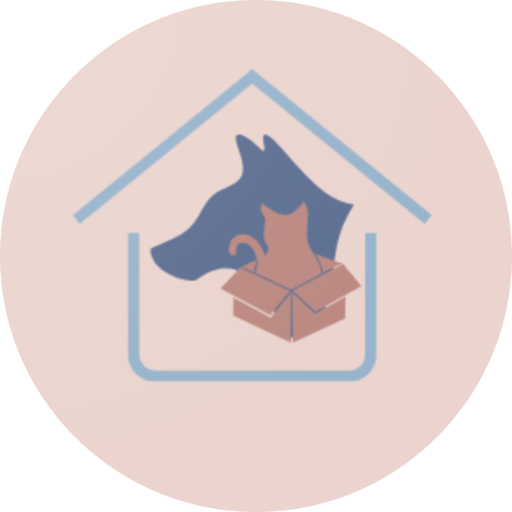
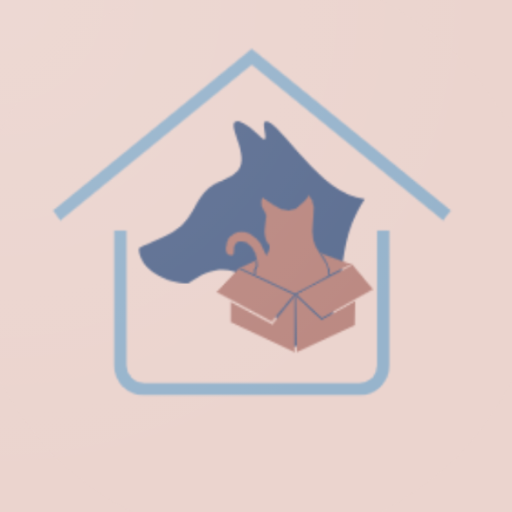
create bottom navigation bar

diff --git a/lib/views/login_page.dart b/lib/views/login_page.dart
@@ -2,17 +2,11 @@ import 'package:flutter/material.dart';
 import 'package:pet_rescue_mobile/presenter/sign_in.dart';
 import 'package:pet_rescue_mobile/src/asset.dart';
 
-//tmp screen
-class FirstScreen extends StatelessWidget {
-  @override
-  Widget build(BuildContext context) {
-    return Scaffold(
-      body: Container(color: Colors.blue[100]),
-    );
-  }
-}
+import '../navigator.dart';
 
 class LoginPage extends StatefulWidget {
+  LoginPage({Key key}) : super(key: key);
+  
   @override
   _LoginPageState createState() => _LoginPageState();
 }
@@ -31,11 +25,11 @@ class _LoginPageState extends State<LoginPage> {
               Hero(
                 tag: 'hero',
                 child: SizedBox(
-                  height: 200,
-                  child: Image.asset(app_logo)
+                  height: 400,
+                  child: Image.asset(canva_logo)
                   )
               ),
-              SizedBox(height: 100),
+              SizedBox(height: 120),
               _signInButton(),
             ],
           ),
@@ -54,7 +48,7 @@ class _LoginPageState extends State<LoginPage> {
             Navigator.of(context).push(
               MaterialPageRoute(
                 builder: (context) {
-                  return FirstScreen();
+                  return BottomNavBar();
                 }
               )
             );
@@ -70,13 +64,13 @@ class _LoginPageState extends State<LoginPage> {
           mainAxisSize: MainAxisSize.min,
           mainAxisAlignment: MainAxisAlignment.center,
           children: <Widget>[
-            Image(image: AssetImage("assets/google_logo.png"), height: 35.0),
+            Image(image: AssetImage("assets/google_logo.png"), height: 30.0),
             Padding(
               padding: const EdgeInsets.only(left: 10),
               child: Text(
                 'Sign in with Google',
                 style: TextStyle(
-                  fontSize: 20,
+                  fontSize: 18,
                   color: Colors.grey,
                 ),
               ),

diff --git a/lib/navigator.dart b/lib/navigator.dart
@@ -1,0 +1,70 @@
+import 'package:flutter/cupertino.dart';
+import 'package:flutter/material.dart';
+
+import 'views/home_page.dart';
+import 'views/profile.dart';
+import 'views/progress_report.dart';
+
+class BottomNavBar extends StatefulWidget {
+  @override
+  State<StatefulWidget> createState() => _BottomNavBar();
+}
+
+class _BottomNavBar extends State<BottomNavBar> {
+  @override
+  void initState() {
+    super.initState();
+  }
+
+  @override
+  void dispose() {
+    super.dispose();
+  }
+
+  final List<Widget> pages = [
+    HomePage(key: PageStorageKey('HomePage')),
+    ProgressReportPage(key: PageStorageKey('ProgressReportPage')),
+    ProfilePage(key: PageStorageKey('ProfilePage')),
+  ];
+
+  final PageStorageBucket bucket = PageStorageBucket();
+
+  int _selectedIndex = 0;
+
+  Widget _bottomNavBar(int selectedIndex) => BottomNavigationBar(
+        showSelectedLabels: false,
+        showUnselectedLabels: false,
+        onTap: (int index) => setState(() => _selectedIndex = index),
+        currentIndex: selectedIndex,
+        items: bottomItems,
+      );
+
+  @override
+  Widget build(BuildContext context) {
+    return Scaffold(
+        bottomNavigationBar: _bottomNavBar(_selectedIndex),
+        body: Stack(children: [
+          Container(
+            child: PageStorage(
+              child: pages[_selectedIndex],
+              bucket: bucket,
+            ),
+          ),
+        ]));
+  }
+
+  final bottomItems = [
+    BottomNavigationBarItem(
+      icon: Icon(Icons.home),
+      title: new Text('Home'),
+    ),
+    BottomNavigationBarItem(
+      icon: Icon(Icons.article),
+      title: new Text('Progress Report'),
+    ),
+    BottomNavigationBarItem(
+      icon: Icon(Icons.perm_identity),
+      title: new Text('Profile'),
+    ),
+  ];
+}

diff --git a/lib/presenter/sign_in.dart b/lib/presenter/sign_in.dart
@@ -17,8 +17,8 @@ Future<String> signInWithGoogle() async {
 
   //google
   final FirebaseUser user = (await _auth.signInWithCredential(credential)).user;
-  String tokenGoogle;
-  await user.getIdToken().then((value) => tokenGoogle = value.token);
+  // String tokenGoogle;
+  // await user.getIdToken().then((value) => tokenGoogle = value.token);
 
   //firebase
   final FirebaseUser currentUser = await _auth.currentUser();
@@ -26,7 +26,6 @@ Future<String> signInWithGoogle() async {
   await currentUser.getIdToken().then((value) => tokenFirebase = value.token);
 
   if (currentUser != null) {
-    print('Google:' + tokenGoogle);
     print('Firebase:' + tokenFirebase);
 
     print('signInWithGoogle succeeded: $currentUser');

diff --git a/lib/src/route_page.dart b/lib/src/route_page.dart
@@ -1,0 +1,25 @@
+import 'package:flutter/material.dart';
+import 'package:pet_rescue_mobile/views/home_page.dart';
+import 'package:pet_rescue_mobile/views/login_page.dart';
+
+class RoutePage extends StatefulWidget {
+  @override
+  _RoutePageState createState() => _RoutePageState();
+}
+
+class _RoutePageState extends State<RoutePage> {
+  bool isLoggedIn = false;
+
+  @override
+  void initState() {
+    super.initState();
+    print('initState');
+
+  }
+
+  @override
+  Widget build(BuildContext context) {
+    return isLoggedIn == true ? HomePage() : LoginPage();
+  }
+}
+

diff --git a/lib/src/status.dart b/lib/src/status.dart
@@ -1,0 +1,39 @@
+enum postStatus {
+  Approved,
+  Rejected
+}
+
+enum petStatus {
+  BeingTreatment,
+  FindingAdopter,
+  Adopted
+}
+
+enum adoptionStatus {
+  Processing,
+  Adopted,
+  Returned
+}
+
+enum adoptionRegisterFromDetail {
+  Processing,
+  Approved,
+  Rejected
+}
+
+enum rescueReport {
+  Processing,
+  Approved
+}
+
+enum centerStatus {
+  Opening, 
+  Overloaded,
+  Closed
+}
+
+enum centerRegisterStatus {
+  Processing,
+  Approved,
+  Rejected
+}

diff --git a/lib/views/progress_report.dart b/lib/views/progress_report.dart
@@ -1,0 +1,17 @@
+import 'package:flutter/material.dart';
+
+class ProgressReportPage extends StatefulWidget {
+  const ProgressReportPage({Key key}) : super(key: key);
+
+  @override
+  _ProgressReportPageState createState() => _ProgressReportPageState();
+}
+
+class _ProgressReportPageState extends State<ProgressReportPage> {
+  @override
+  Widget build(BuildContext context) {
+    return Scaffold(
+      body: Container(color: Colors.green[100]),
+    );
+  }
+}

diff --git a/lib/views/profile.dart b/lib/views/profile.dart
@@ -1,0 +1,17 @@
+import 'package:flutter/material.dart';
+
+class ProfilePage extends StatefulWidget {
+  const ProfilePage({Key key}) : super(key: key);
+
+  @override
+  _ProfilePageState createState() => _ProfilePageState();
+}
+
+class _ProfilePageState extends State<ProfilePage> {
+  @override
+  Widget build(BuildContext context) {
+    return Scaffold(
+      body: Container(color: Colors.pink[100]),
+    );
+  }
+}

diff --git a/lib/views/home_page.dart b/lib/views/home_page.dart
@@ -1,0 +1,17 @@
+import 'package:flutter/material.dart';
+
+class HomePage extends StatefulWidget {
+  const HomePage({Key key}) : super(key: key);
+
+  @override
+  _HomePageState createState() => _HomePageState();
+}
+
+class _HomePageState extends State<HomePage> {
+  @override
+  Widget build(BuildContext context) {
+    return Scaffold(
+      body: Container(color: Colors.blue[100]),
+    );
+  }
+}

diff --git a/lib/main.dart b/lib/main.dart
@@ -7,6 +7,7 @@ import 'views/login_page.dart';
 
 void main() => runApp(
   new MaterialApp(
+    debugShowCheckedModeBanner: false,
     home: new MyApp(),
   )
 );
@@ -25,7 +26,7 @@ class _MyApp extends State<MyApp> {
       image: new Image.asset(
         app_logo,
       ),
-      photoSize: 120,
+      photoSize: 180,
       backgroundColor: common,
       loaderColor: Colors.red,
     );

diff --git a/lib/src/asset.dart b/lib/src/asset.dart
@@ -1,2 +1,3 @@
 // Image url
-const String app_logo = 'assets/Logo 5_circle.png';
+const String app_logo = 'assets/web_hi_res_512.png';
+const String canva_logo = 'assets/canva_final_logo.png';
